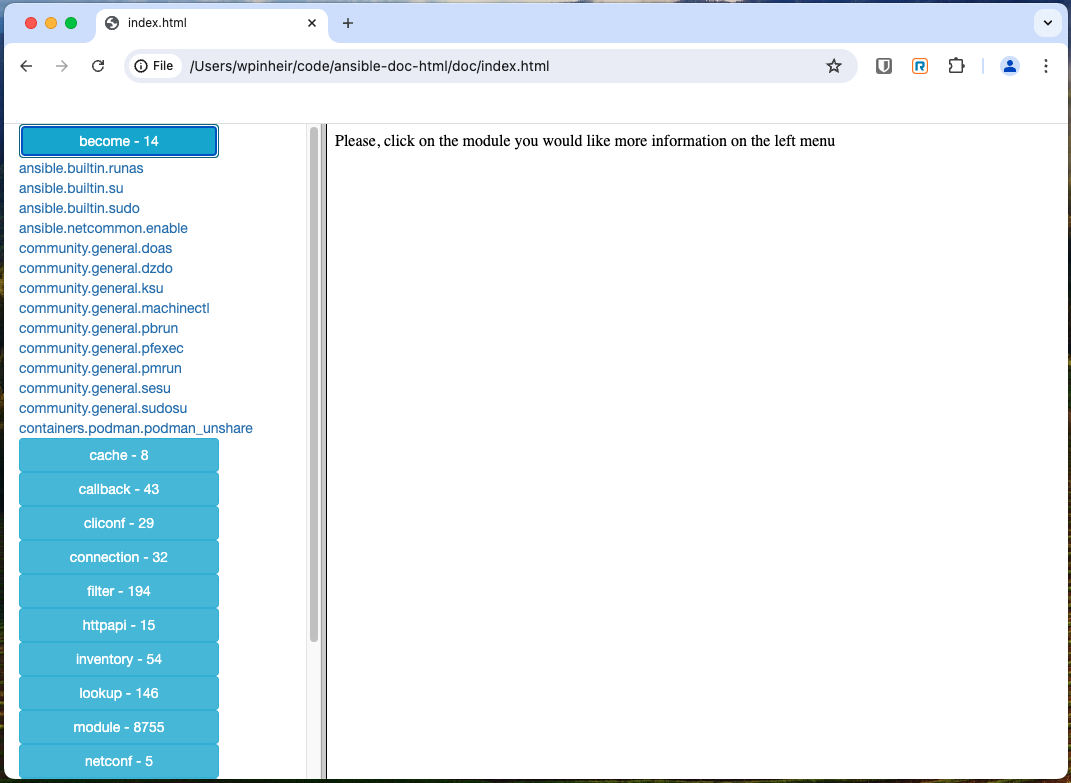
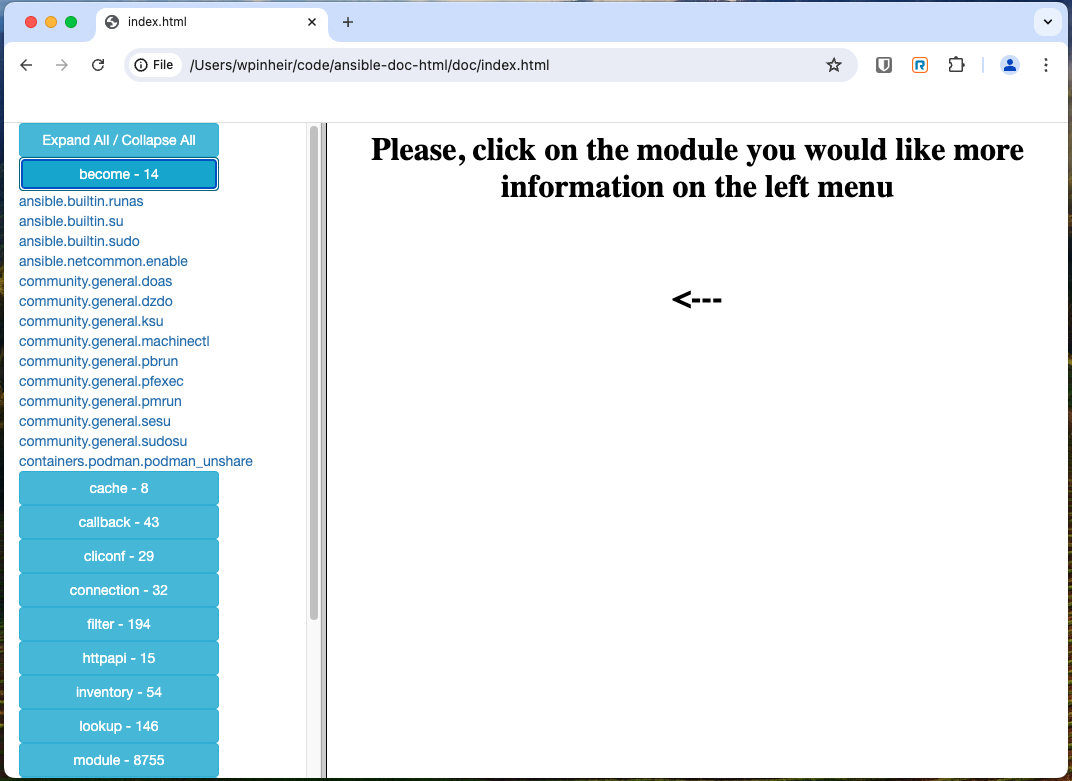
[ENHANCEMENT] expand and collape

diff --git a/README.md b/README.md
@@ -17,7 +17,9 @@ A directory named `doc` will be created, with a bunch of files, but the one that
 
 ![become sub menu](assets/become_sub_menu.png)
 
-![ansible.builtin.copy module](assets/dzdo.png)
+![dzdo module](assets/dzdo.png)
+
+![all expanded](assets/all_expanded.png)
 
 I hope you enjoy it, and please, feel free to submit issues to fix and/or improve it. I'll be more than glad to help!
 
